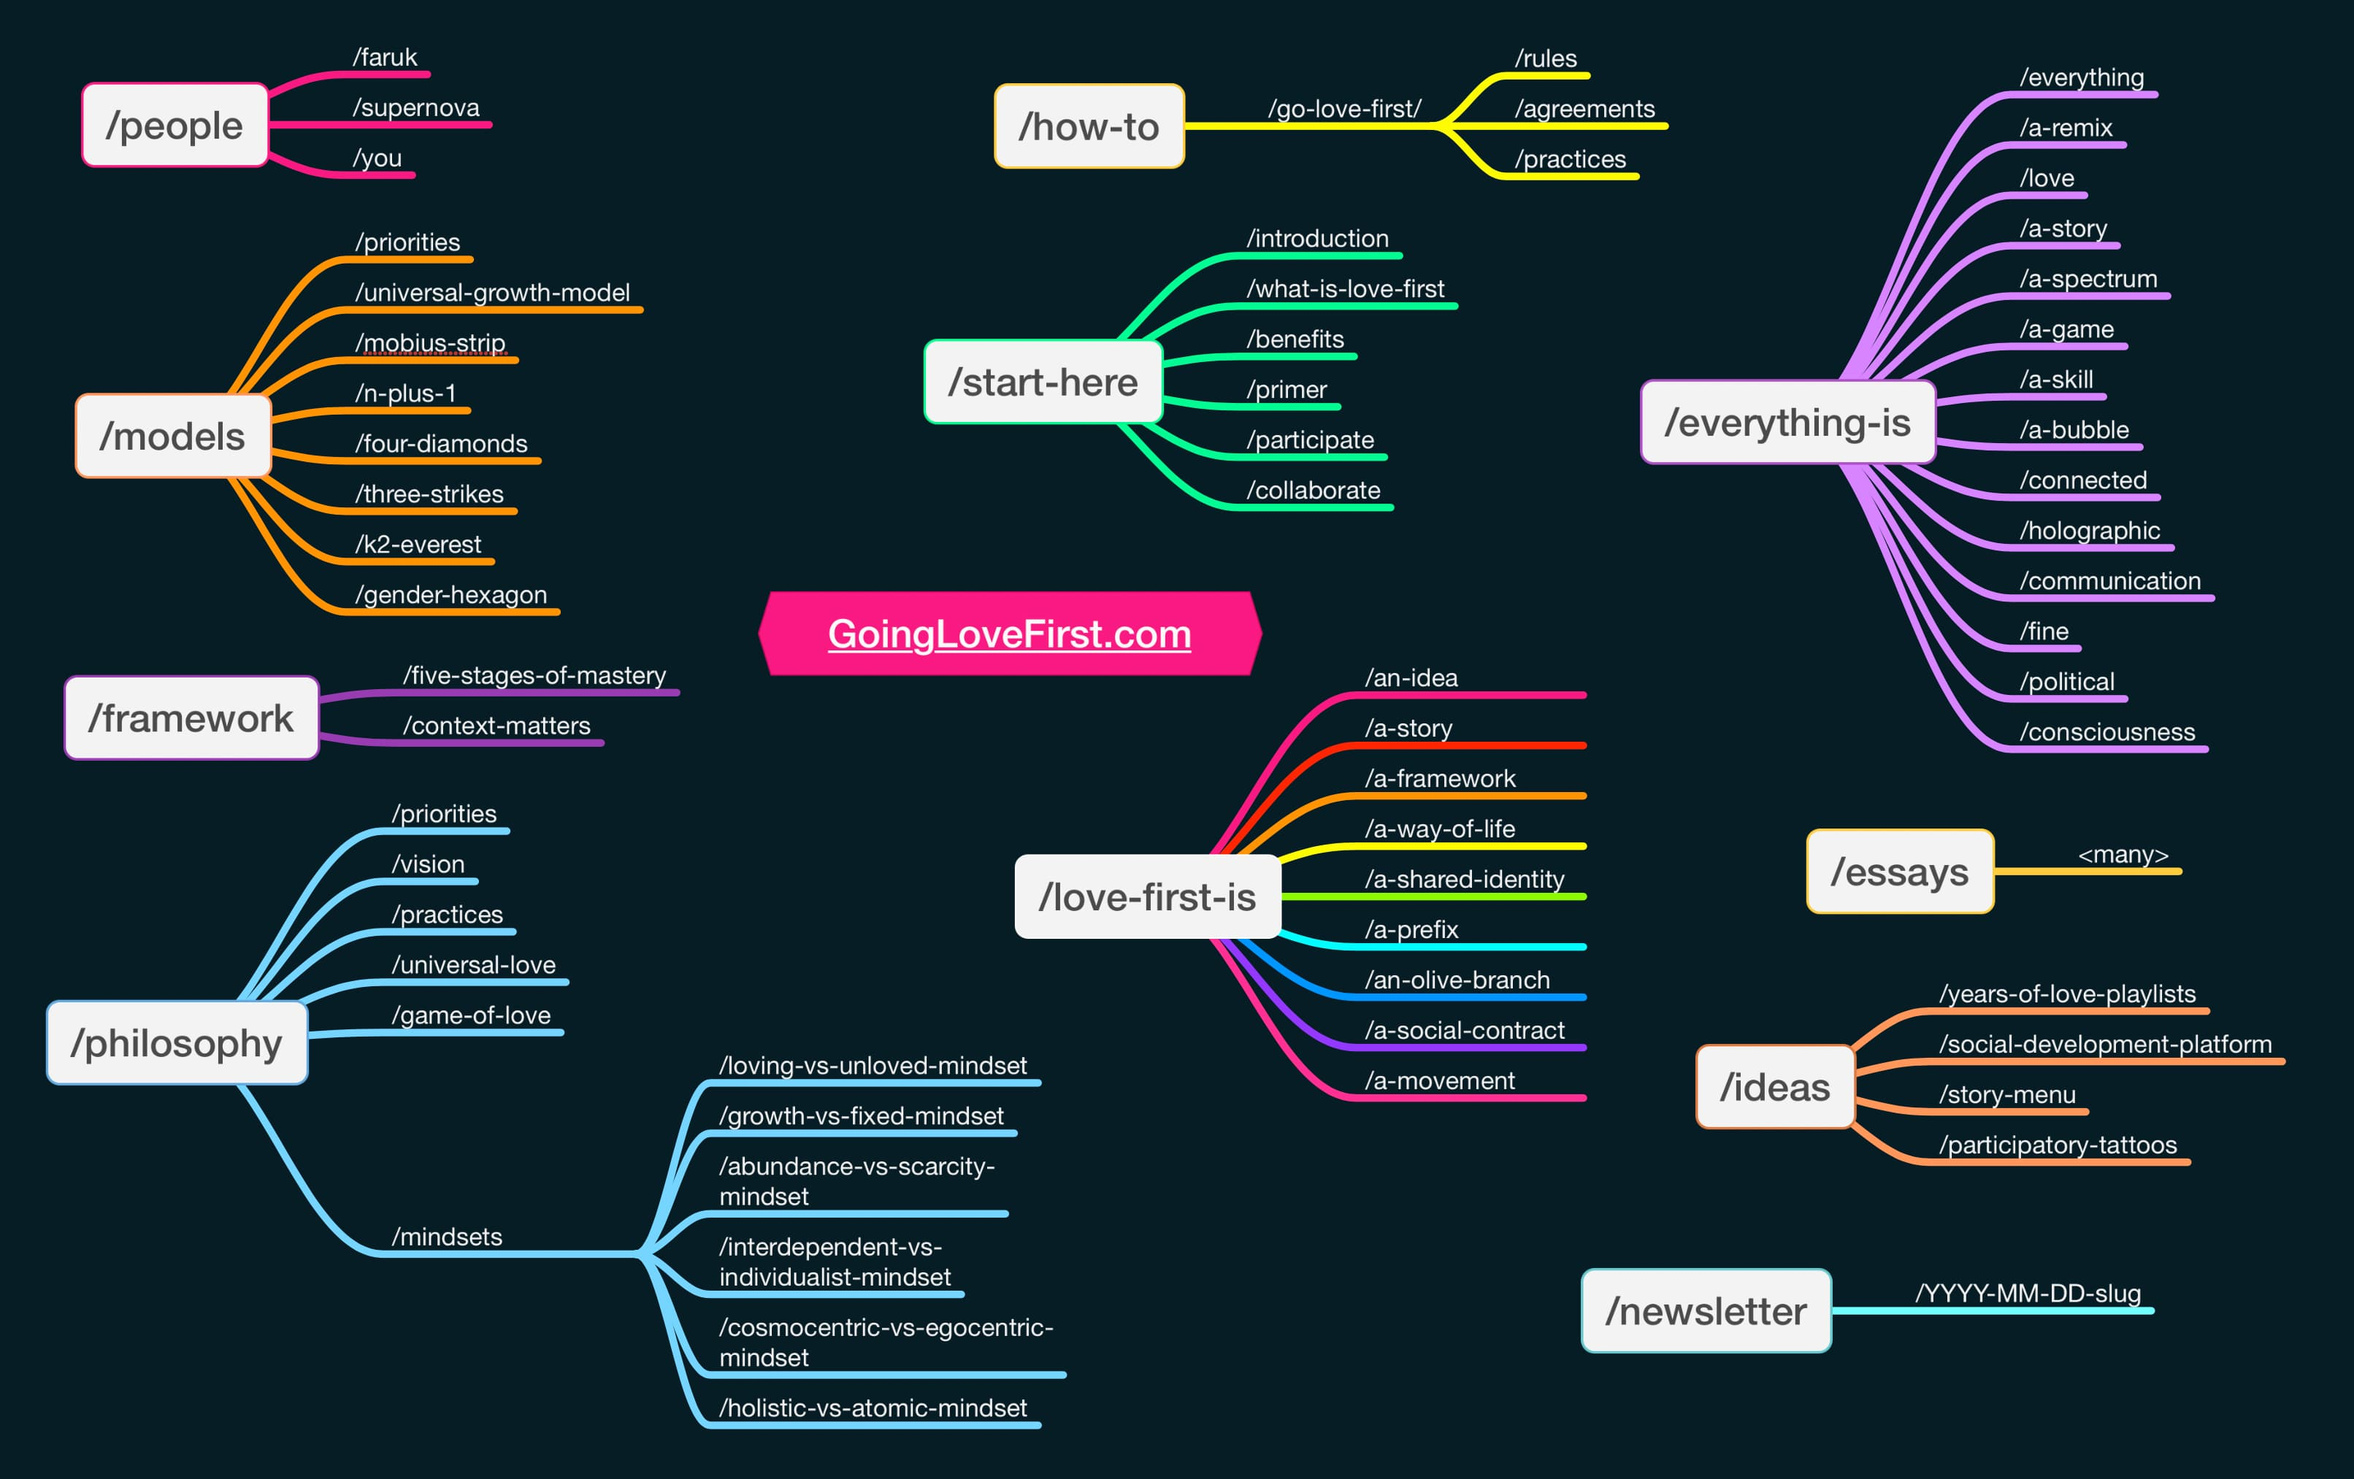
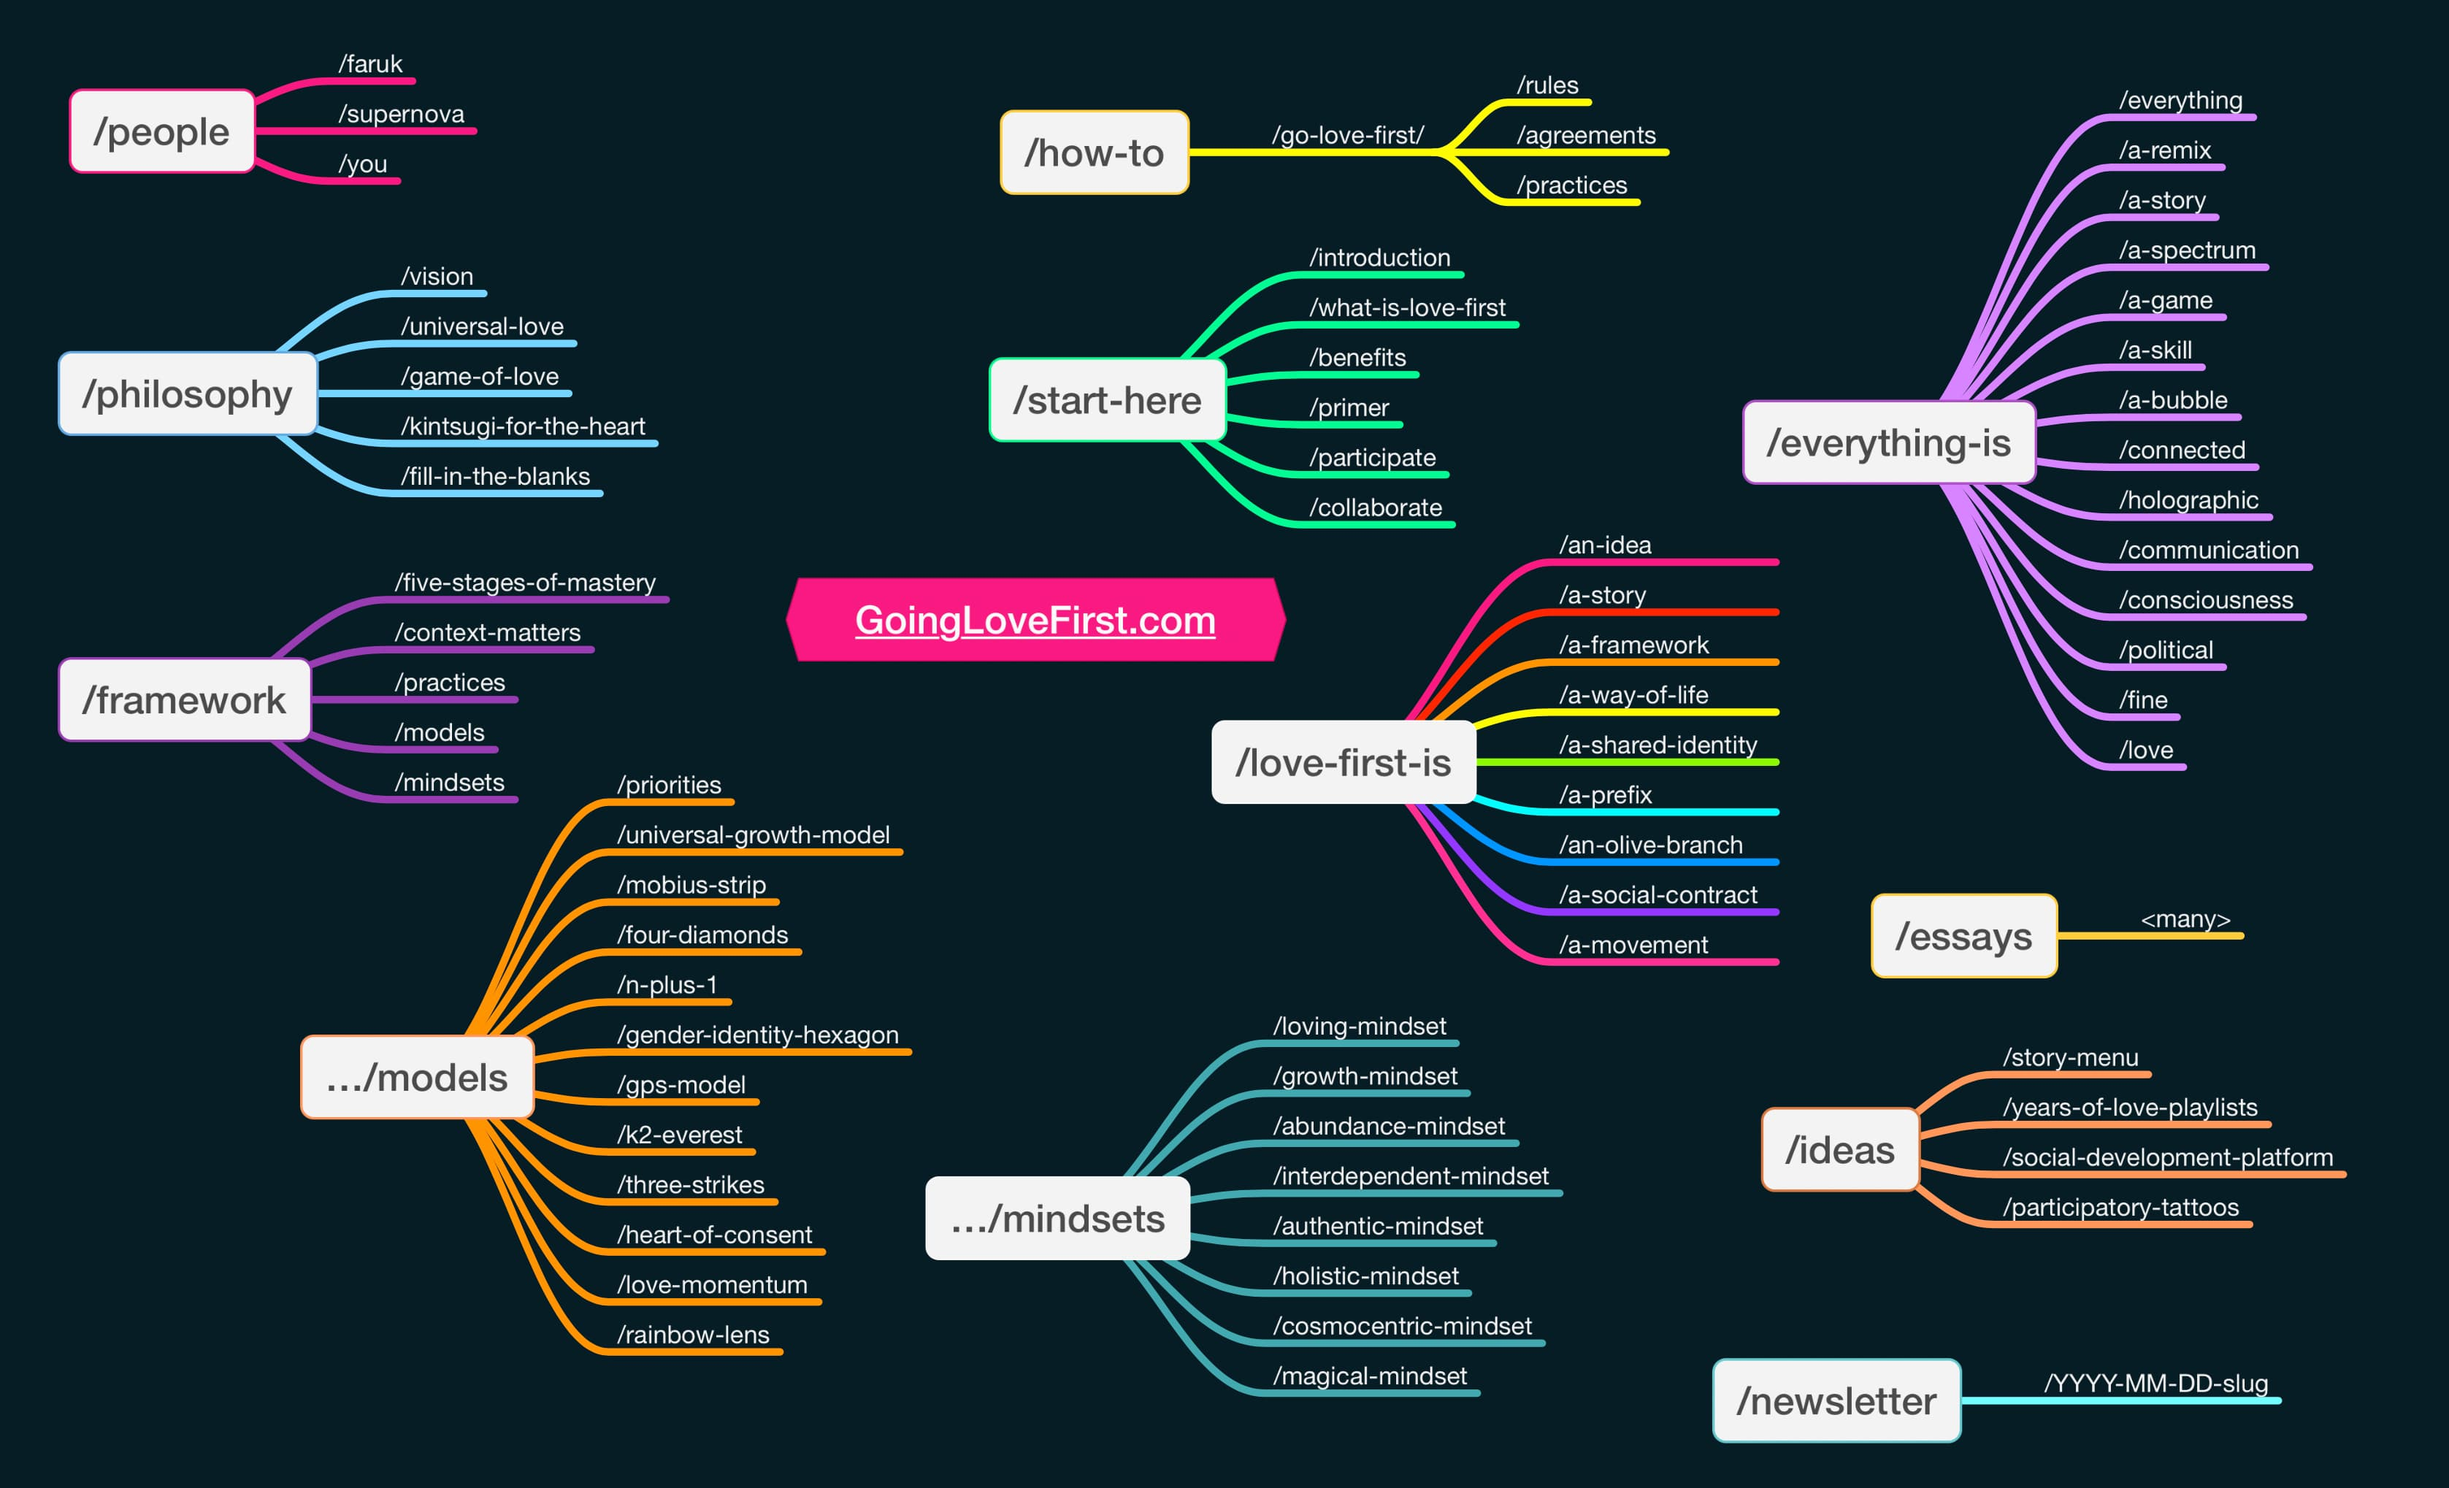
Content and sitemap updates

diff --git a/GLF Qz/newsletter/2024-11-02-harmony-and-keeping-the-peace-are-opposites.md b/GLF Qz/newsletter/2024-11-02-harmony-and-keeping-the-peace-are-opposites.md
@@ -1,0 +1,39 @@
+---
+title: Harmony & Keeping The Peace Are Opposites
+description: Only one is a genuinely pleasant experience for everyone.
+date: 2024-11-02
+aliases:
+  - 2024-11-02-harmony-and-keeping-the-peace-are-opposites
+---
+
+# Harmony & Keeping The Peace Are Opposites
+
+I had a difficult conversation last night, and I’m glad I did. Confronting people about harm they caused you is never easy, but after having leaned into discomfort numerous times thanks to Love First’s foundational *Embrace Vulnerability* practice, I’ve become strangely comfortable having all sorts of uncomfortable conversations.
+
+While occasionally tense, things never got heated or unpleasant—a testament to our mutual respect for each other as human beings, and our shared commitment to non-violent communication. The emotions only really escalated (on both our ends) when I shared what mattered most to me, all logic and reasoning and “right or wrong”-ness aside:
+
+I felt hurt by their actions, and that there remained an imbalance that left us in disharmony with one another. 
+
+I was hoping to feel heard and seen in my pain, and expressed that I just wanted us to come to a place of harmony. We didn’t need to be close friends, or much of anything at all even. I wanted to have balance restored so that, under some hypothetical future scenario wherein I was asked about their character, I could honestly say something positive (“there was a rupture, but they repaired it”) and have their actions not come around to bite them in the ass somewhere down the line. 
+
+Schadenfreude may be satisfying, but it is an expression of the worst in us.
+
+In the second half of the evening’s conversation, a lot of context emerged that explained certain choices and behaviors. This led to a point where I needed to clarify something I’ve seen people misunderstand before:
+
+**Harmony and “keeping the peace” are not synonyms; they are opposite ends on a spectrum.**
+
+Picture a 55-piece orchestra: every musician has their respective instrument, notes to play, and energy to add to the experience. **Harmony** is when every single one of them plays every note perfectly and beautifully, and what could have been a cacophony of 55 different noises is instead a pleasing whole, greater than the sum of its parts.
+
+Conversely, when we try to **keep the peace**, it would be like that same 55-piece orchestra playing the same song, but three of the violinists have been arguing all day about the best or “right” technique for a certain part, and right now they’re all focusing more on how the others are playing so that they can criticize them for any mistakes later. As a result, each are making some mistakes themselves, but there’s five total violinists, so you might not notice as a listener. Then there’s the french horn player, who’s still recovering from pneumonia and is dropping certain notes. But you don’t know those notes were meant to be played, so you don’t notice anything wrong. And then there’s the flutist, who is angry with the conductor, and is letting that energy flow into their performance. The flutists next to them feel it, the conductor feels it, but you’re in the audience, and you don’t notice a thing.
+
+From the outside observer’s perspective, the song may have been played exactly as it was meant to. But the people on the inside of the conflicts and struggle are acutely aware of how subpar their performance was. And they’re not better off for it just because you and others didn’t notice.
+
+Keeping the peace is about the *appearance* of harmony, while actively trying to subdue or hide the disharmony that exists. Conversely, when we work to create *real* harmony, we show up to do the hard work: we repair damages and ruptures, own our actions, apologize as needed, and seek to Restore Balance. 
+
+Harmony—*actual* harmony—comes from repairing every bit of disharmony we are unable to let go of. There is no preventative approach to creating harmony; it is only a result of how we (collectively) show up to co-create, and how we come together when—not if, *when*—disharmony occurs. It is an acknowledgement of our whole and flawed humanness, a knowing that every single one of us will make mistakes sometimes that cause other people harm. And what matters most is not the intention or even the legality of our actions; what matters most is what the results of those actions are. 
+
+If your actions caused harm, then intentional or not, and whether legal or not, it means you created disharmony, and now there is an opportunity to do repair. That repair allows you to create *more* harmony between you than existed even before the rupture.
+
+And I think we should all consider it a gift when we can create more harmony.
+
+![[dragon-decoration.jpg]]

diff --git a/GLF Qz/love-first-is/A Framework.md b/GLF Qz/love-first-is/A Framework.md
@@ -23,9 +23,9 @@ At a high level, the framework can be explored like this:
 ## 🫵🏽 1 Invitation
 1. F_ll \_n Th\_ Bl_nks
 
-## 📜 2 Rules
-1. We Don’t Have Rules; We Have Agreements
-1. The Doctor Lies
+## 🎲 2 Modalities
+1. The Game of Love
+2. Kintsugi for the Heart
 
 ## 🗣 3 Declarations
 1. Why You Should Declare Rock Bottom
@@ -40,12 +40,12 @@ At a high level, the framework can be explored like this:
 5. Love (Spirit)
 
 ## 🧠 8 Mindsets
-1. Growth
-2. Abundance
-3. Loving
-4. Holistic
-5. Authentic Growth
-6. Interdependent
+1. Loving
+2. Growth
+3. Abundance
+4. Interdependent
+5. Authentic
+6. Holistic
 7. Cosmo-centric
 8. Magical
 
@@ -61,8 +61,8 @@ At a high level, the framework can be explored like this:
 9. Three Strikes
 10. The Heart of Consent
 11. Love Momentum
-12. (TBD)
-13. (TBD)
+12. Multi-dimensionality
+13. The Rainbow Lens
 
 ## 🎼 21 Alignment practices
 1. Express Gratitude
@@ -72,16 +72,16 @@ At a high level, the framework can be explored like this:
 5. Say “Yes, And!”
 6. Practice Mindfulness
 7. Break The Fourth Wall
-8. Create And Gift
-9. Play Together, Win Together
-10. Validate The Story
-12. Find Your Tribe
+8. Play To Win Together
+9. Validate The Story
+10. Find Your Tribe
+11. Create And Gift
+12. Celebrate Our Differences
+13. Be Curious, Not Judgmental 
 14. Connect The Dots
-13. Celebrate Our Differences
-15. Be Curious, Not Judgmental 
-16. Make Good Art
-17. Experiment
-11. Don’t Be Perfect
+15. Make Good Art
+16. Experiment
+17. Don’t Be Perfect
 18. Teach Everything You Know
 19. Question Everything
 20. Restore Balance
@@ -90,4 +90,4 @@ At a high level, the framework can be explored like this:
 
 ### Version & Footnotes
 
-This page is 🌀 vol. 1 of a [[Living Document]]. It is currently in Draft status.
+This page is 🌀 vol. 1 of a [[Living Document]]. It is currently in Tentatively Complete status.

diff --git a/GLF Qz/Sitemap.md b/GLF Qz/Sitemap.md
@@ -13,8 +13,8 @@ This is a planned Sitemap for goinglovefirst.com. As part of the [[Love First Wr
 - /start-here
 	- /introduction
 	- /what-is-love-first
+	- [[A Primer on Love First|A Primer on Love First]]
 	- /benefits
-	- [[primer|A Primer on Love First]]
 	- /participate
 	- /collaborate
 - /love-first-is
@@ -27,35 +27,44 @@ This is a planned Sitemap for goinglovefirst.com. As part of the [[Love First Wr
 	- /an-olive-branch
 	- /a-social-contract
 	- /a-movement
-- /how-to/go-love-first/
+- /how-to
 	- /rules
 	- /agreements
 	- /practices
 - /philosophy
-	- /priorities
 	- /vision
-	- /practices
 	- /universal-love
 	- /game-of-love
-	- /mindsets
-		- /loving-vs-unloved-mindset
-		- /growth-vs-fixed-mindset
-		- /abundance-vs-scarcity-mindset
-		- /interdependent-vs-individualist-mindset
-		- /cosmocentric-vs-egocentric-mindset
-		- /holistic-vs-atomic-mindset
-- /models
-	- /priorities
-	- /universal-growth-model
-	- /mobius-strip
-	- /n-plus-1
-	- /four-diamonds
-	- /three-strikes
-	- /k2-everest
-	- /gender-hexagon
+	- /kintsugi-for-the-heart
+	- /fill-in-the-blanks
 - /framework
 	- /five-stages-of-mastery
 	- /context-matters
+	- /elements
+	- /mindsets
+		- /loving-mindset
+		- /growth-mindset
+		- /abundance-mindset
+		- /interdependent-mindset
+		- /authentic-mindset
+		- /holistic-mindset
+		- /cosmocentric-mindset
+		- /magical-mindset
+	- /models
+		- /priorities
+		- /universal-growth-model
+		- /mobius-strip
+		- /four-diamonds
+		- /n-plus-1
+		- /gender-identity-hexagon
+		- /gps-model
+		- /k2-everest
+		- /three-strikes
+		- /heart-of-consent
+		- /love-momentum
+		- /rainbow-lens
+	- /practices
+		- /<21x>
 - /everything-is
 	- /everything
 	- /a-remix

diff --git a/GLF Qz/start-here/What is Love First.md b/GLF Qz/start-here/What is Love First.md
@@ -1,0 +1,15 @@
+---
+title: What is Love First?
+showtitle: true
+date: 2024-07-26
+tags:
+  - work-in-progress
+aliases:
+- what-is-love-first
+---
+
+Love First is [[An Idea]], [[A Way of Life]], [[A Framework]], A Shared Identity, A Movement, and more. With it being an umbrella term encapsulating so many things, it’s hard to pin down or explain simply! 
+
+As an **Idea**, Love First teaches that with all we have discovered, learned, and invented, the best foundation for us to heal the world’s pain and overcome our collective challenges, is the philosophy of _Universal Love_. It offers us a lens through which we can channel our thoughts, words, and actions, and create beautiful, powerful, even miraculous results.
+
+As a **Way of Life**, Love First invites us to embody living by the values, principles, and practices it offers, implementing them in all areas of our lives as best we can. To embrace it as a way of life is known as *Going Love First* (hence the name of this site).

diff --git a/GLF Qz/index.md b/GLF Qz/index.md
@@ -22,7 +22,7 @@ That’s what is called *Cosmic Flow State*, and Love First is your path to get 
 
 Love First brings together ancient wisdom with cutting-edge science from fields like flow state, neurolinguistic programming, mindfulness, psychology and more, to create a holistic way of being that helps you get attuned to the magic and mysteries of the universe. And even if you’re not into spiritual stuff, or think this is a little “woo” for you, the evidence-based practices and teachings will help you elevate your life to the next level all the same.
 
-Learn more in the [[primer|Primer on Love First]], or check out the first [[Love First Writing Experiment]].
+Learn more in the [[A Primer on Love First|Primer on Love First]], or check out the first [[Love First Writing Experiment]].
 
 If you’d like to learn more about *Cosmic Flow State*, check out [Love First Coaching](https://lovefirstcoaching.com/).
 

diff --git a/GLF Qz/start-here/index.md b/GLF Qz/start-here/index.md
@@ -11,6 +11,6 @@ Get started with what Love First is about:
 1. Introduction *(Coming soon)*
 2. What Is Love First? *(Coming soon)*
 3. The Benefits of **Going Love First** *(Coming soon)*
-4. [[primer|A Primer on Love First]]
+4. [[A Primer on Love First|A Primer on Love First]]
 5. Participate in Love First *(Coming soon)*
 6. Collaborate on Love First *(Coming soon)*

diff --git a/GLF Qz/start-here/A Primer on Love First.md b/GLF Qz/start-here/A Primer on Love First.md
@@ -5,6 +5,7 @@ description: What is Love First, in a nutshell?
 showtitle: true
 aliases:
 - primer-on-love-first
+- primer
 ---
 
 Love First is an Idea, a Life Philosophy, a Framework, a Shared Identity, and a Movement.
